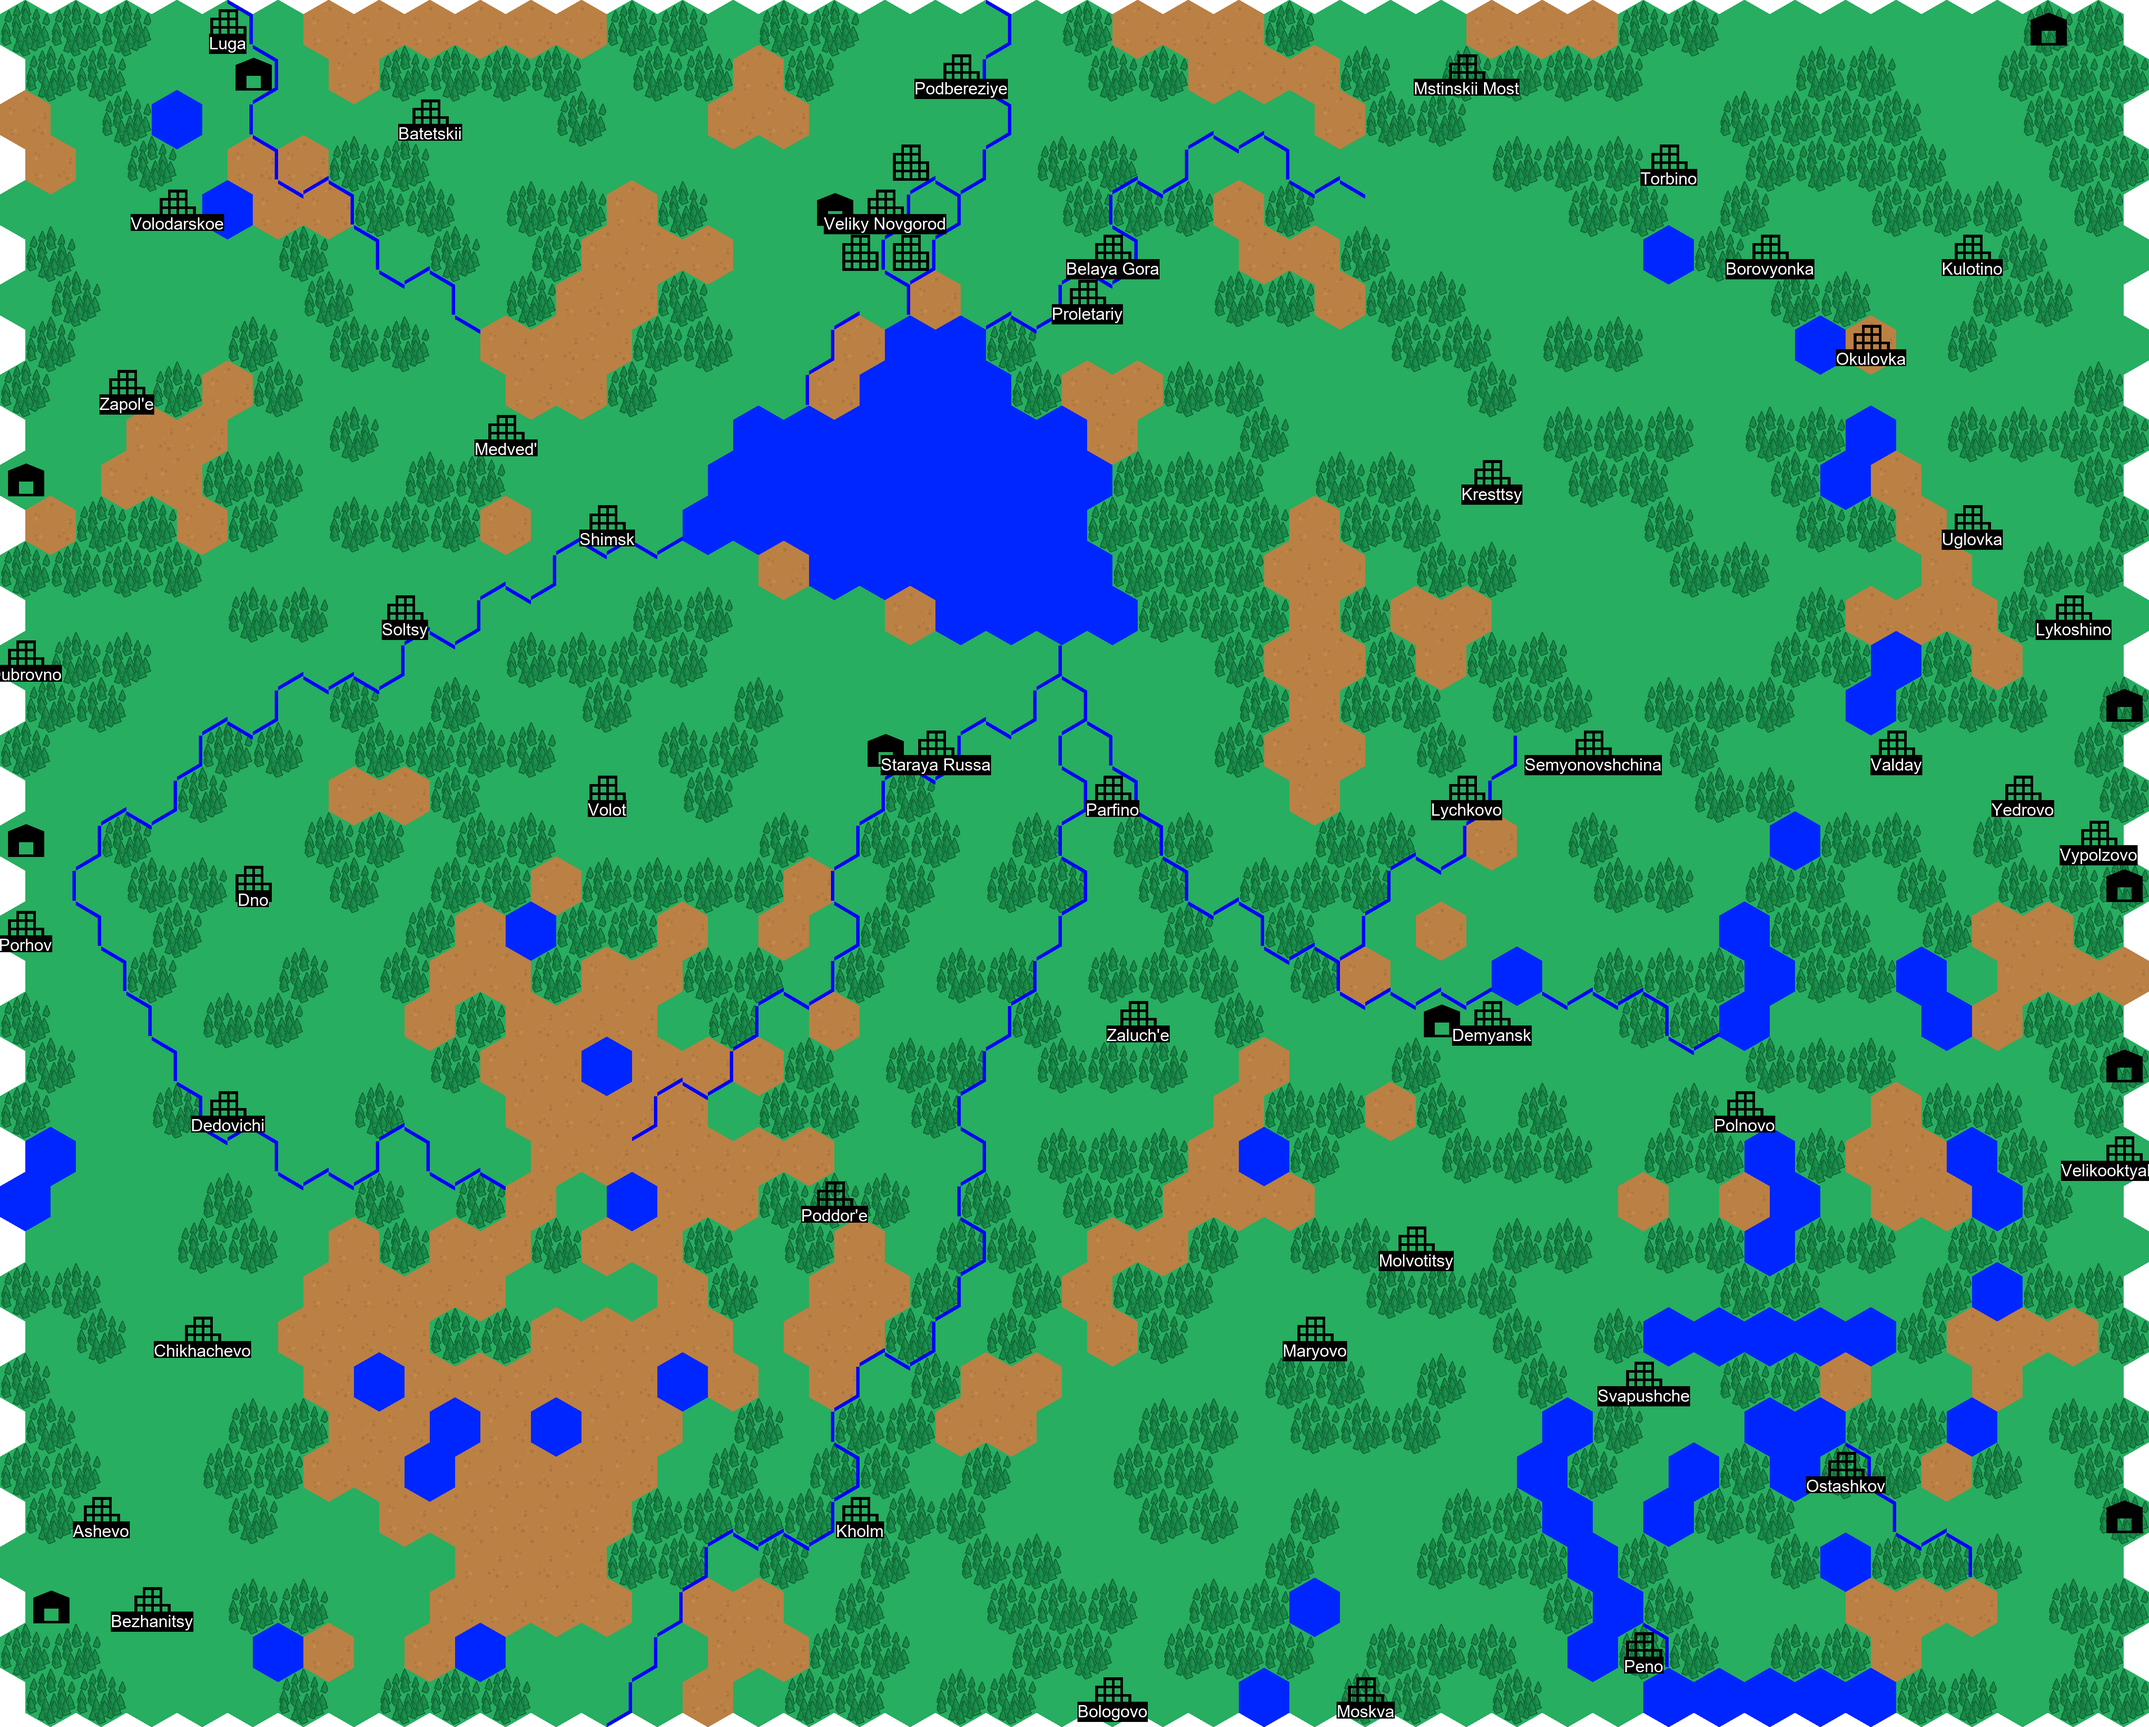
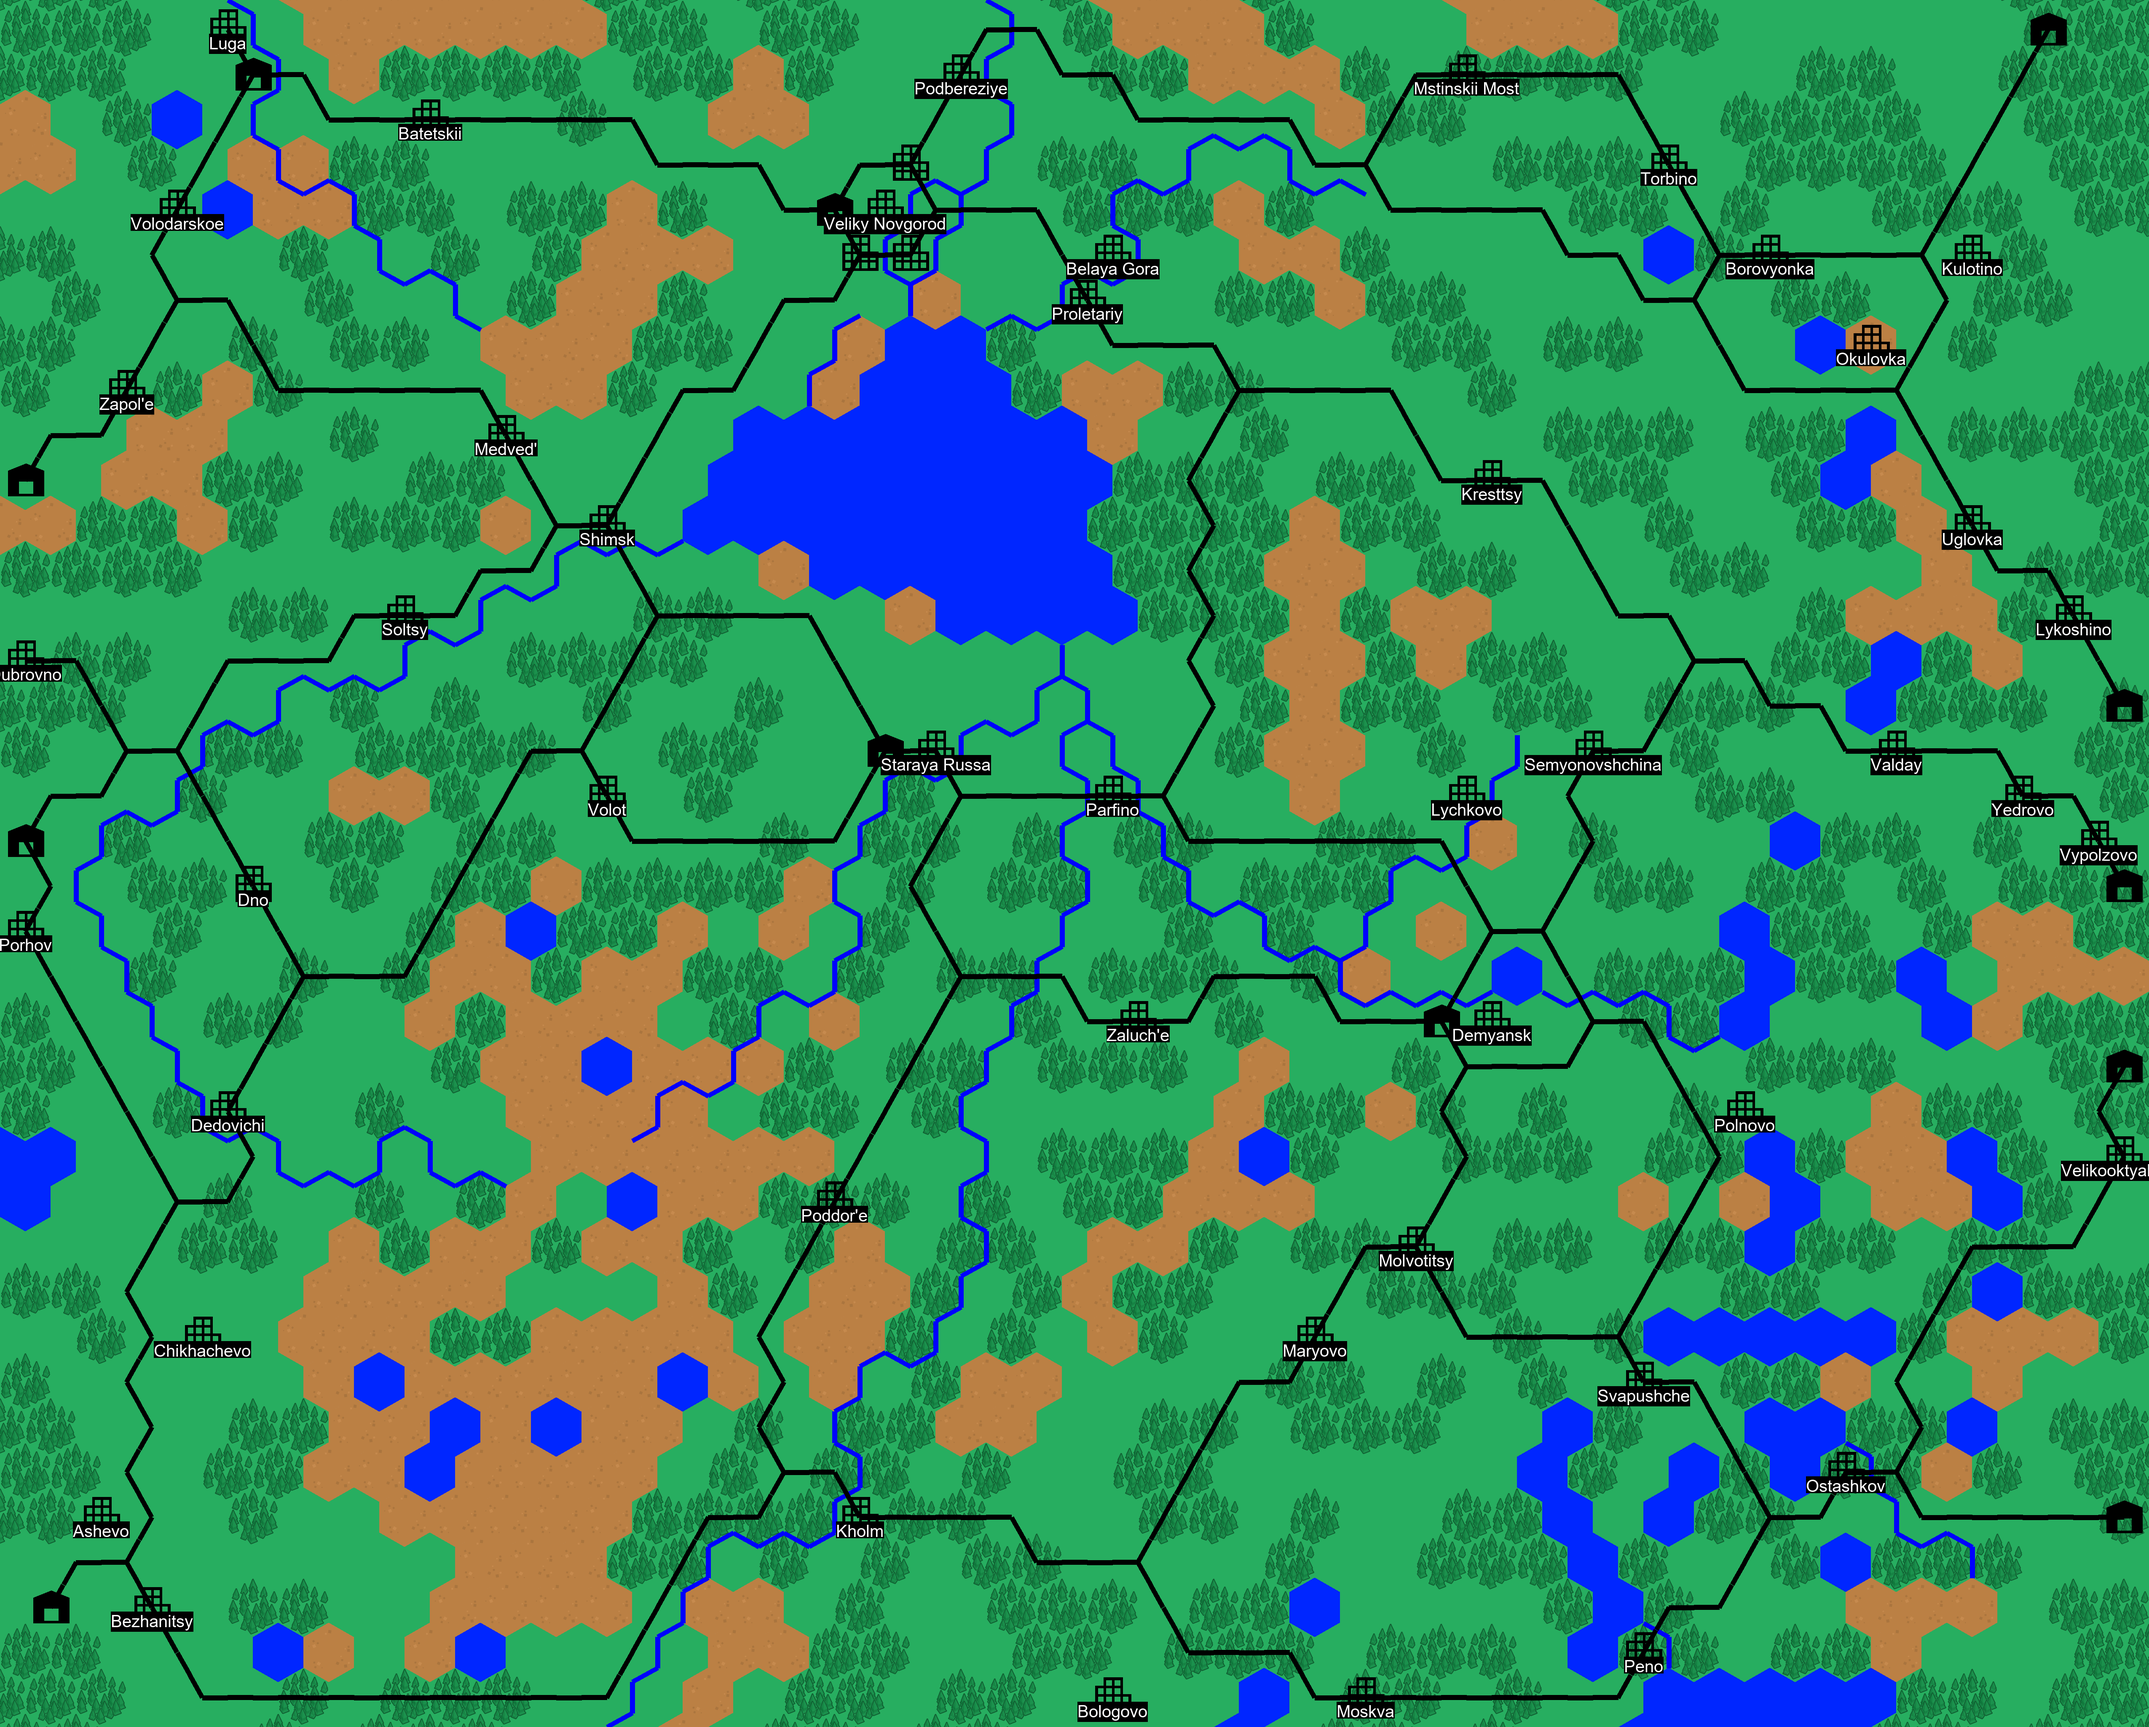
map preview

diff --git a/src/map_generate_preview.py b/src/map_generate_preview.py
@@ -2,6 +2,7 @@ from os import listdir, path
 from json import load
 from inquirer import List, prompt
 from PIL import Image, ImageFont, ImageDraw
+from operator import add
 
 BASE_DIR = path.dirname(path.abspath(__file__))
 ROOT_DIR = path.abspath(path.join(BASE_DIR, ".."))
@@ -9,6 +10,7 @@ MAPS_DIR = path.join(ROOT_DIR, "maps")
 MAPS_DATA_DIR = path.join(ROOT_DIR, "maps_data")
 RESOURCES_DIR = path.join(ROOT_DIR, "resources")
 
+HEXAGON_CORNERS = ((60, 0), (120, 33), (120, 107), (60, 140), (0, 107), (0, 33))
 
 class MapPreview:
 
@@ -23,19 +25,14 @@ class MapPreview:
         self.hexagon_h = 0
         self.pixel_w = 0
         self.pixel_h = 0
+        
+        self.hex_lookup = {}
 
         self.images = {"terrain": {}, "landmark": {}, "river": []}
-
-        self.river_map = [
-            [False, False, False, False, False, False],
-            [True, False, False, False, False, False],
-            [False, True, False, False, False, False],
-            [False, False, True, False, False, False],
-            [True, True, False, False, False, False],
-            [True, False, True, False, False, False],
-            [False, True, True, False, False, False],
-            [True, True, True, False, False, False],
-        ]
+        
+        self.canvas = None
+        self.draw = None
+        self.font = ImageFont.truetype("arial.ttf", 40)
 
     def load_terrain_images(self):
         for image_filename in listdir(path.join(RESOURCES_DIR, "terrain")):
@@ -67,72 +64,125 @@ class MapPreview:
         self.hexagon_h = data["metadata"]["height"]
         self.pixel_w = self.hexagon_w * 120 + 60
         self.pixel_h = self.hexagon_h * 107 + 33
+        
+        self.hex_lookup = {(h['x'], h['y']): h for h in self.hexagons}
+        self.canvas = Image.new("RGBA", (self.pixel_w, self.pixel_h), (0, 0, 0, 0))
+        self.draw = ImageDraw.Draw(self.canvas)
 
-    def generate_preview(self):
-
-        canvas = Image.new("RGBA", (self.pixel_w, self.pixel_h), (0, 0, 0, 0))
-
-        draw = ImageDraw.Draw(canvas)
-
-        font = ImageFont.truetype("arial.ttf", 40)
+    def draw_hexagons(self):
 
         for hexagon in self.hexagons:
             ix = hexagon["x"]
             iy = hexagon["y"]
             terrain = hexagon["terrain"]
             landmark = hexagon["landmark"]
-            river = hexagon["river"]
 
             px = ix * 120 + (iy % 2) * 60
             py = iy * 107
 
-            river_index = 0
+            terrain_img = self.images["terrain"][terrain]
+            landmark_img = self.images["landmark"][landmark]
 
-            for i in range(8):
-                if not all(x == y for x, y in zip(river, self.river_map[i])):
-                    continue
-                river_index = i
-                break
+            self.canvas.paste(terrain_img, (px, py), terrain_img)
 
-            canvas.paste(
-                self.images["terrain"][terrain],
-                (px, py),
-                self.images["terrain"][terrain],
-            )
+            if iy % 2 == 0 and ix + 1 == self.hexagon_w:
+                self.canvas.paste(terrain_img, (px + 120, py), terrain_img)    
+                
+            if iy % 2 == 1 and ix == 0:   
+                self.canvas.paste(terrain_img, (px - 120, py), terrain_img)    
+                
+            if iy == 0:
+                self.canvas.paste(terrain_img, (px - 60, py - 107), terrain_img)    
+                if ix + 1 == self.hexagon_w:               
+                    self.canvas.paste(terrain_img, (px + 60, py - 107), terrain_img)    
 
-            if landmark != "default":
-                canvas.paste(
-                    self.images["landmark"][landmark],
-                    (px, py),
-                    self.images["landmark"][landmark],
-                )
+            if iy + 1 == self.hexagon_h:
+                self.canvas.paste(terrain_img, (px - 60, py + 107), terrain_img)     
+                if ix + 1 == self.hexagon_w:               
+                    self.canvas.paste(terrain_img, (px + 60, py + 107), terrain_img)    
 
-            if river_index > 0:
-                canvas.paste(
-                    self.images["river"][river_index],
-                    (px, py),
-                    self.images["river"][river_index],
-                )
-
+            if landmark == "default":
+                continue
+            
+            self.canvas.paste(landmark_img, (px, py), landmark_img)   
+     
+    def draw_city_names(self):
         for city in self.cities:
             ix = city["x"]
             iy = city["y"]
             name = city["name"]
 
-            bbox = draw.textbbox((0, 0), name, font=font)
+            bbox = self.draw.textbbox((0, 0), name, font=self.font)
             text_w = bbox[2] - bbox[0]
             text_h = bbox[3] - bbox[1]
 
             px = ix * 120 + (iy % 2) * 60 + 60 - text_w // 2
             py = iy * 107
 
-            draw.rectangle(
+            self.draw.rectangle(
                 (px, py + 80, px + text_w, py + 80 + text_h + 10),
                 fill=(0, 0, 0, 255),
             )
-            draw.text((px, py + 80), name, fill=(255, 255, 255, 255), font=font)
+            self.draw.text((px, py + 80), name, fill=(255, 255, 255, 255), font=self.font)   
+         
+    def draw_rivers(self):
+                
+        for hexagon in self.hexagons:
+            ix = hexagon["x"]
+            iy = hexagon["y"]
+            river = hexagon["river"]
 
-        canvas.save(path.join(MAPS_DATA_DIR, self.map_id, "preview.png"))
+            px = ix * 120 + (iy % 2) * 60
+            py = iy * 107  
+            
+            for index, value in enumerate(river):
+                
+                if not value:
+                    continue
+                
+                (cpx1, cpy1) = HEXAGON_CORNERS[index]
+                (cpx2, cpy2) = HEXAGON_CORNERS[(index + 1) % 6]
+                
+                self.draw.line([(px + cpx1, py + cpy1), (px + cpx2, py + cpy2)], fill=(0, 0, 255), width=12)
+
+    def draw_railway(self):
+        for hexagon in self.hexagons:
+            ix = hexagon["x"]
+            iy = hexagon["y"]
+            railway = hexagon["railway"] 
+
+            if not railway:
+                continue
+
+            if iy % 2 == 0:
+                neighbor_coords = [(ix, iy-1), (ix+1, iy), (ix, iy+1), (ix-1, iy+1), (ix-1, iy), (ix-1, iy-1)]    
+            else:
+                neighbor_coords = [(ix+1, iy-1), (ix+1, iy), (ix+1, iy+1), (ix, iy+1), (ix-1, iy), (ix, iy-1)]
+
+            railways = [False, False, False, False, False, False]
+            for i, (nx, ny) in enumerate(neighbor_coords):
+                neighbor = self.hex_lookup.get((nx, ny))
+                if neighbor and neighbor["railway"]:
+                    railways[i] = True
+
+            px = ix * 120 + (iy % 2) * 60
+            py = iy * 107  
+
+            (cpx1, cpy1) = (60, 70)
+            
+            for index, value in enumerate(railways):
+                if not value:
+                    continue
+      
+                hc1 = HEXAGON_CORNERS[index]
+                hc2 = HEXAGON_CORNERS[(index + 1) % 6]
+      
+                (cpx2, cpy2) = ((hc1[0] + hc2[0]) / 2, (hc1[1] + hc2[1]) / 2)            
+            
+                self.draw.line([(px + cpx1, py + cpy1), (px + cpx2, py + cpy2)], fill=(0, 0, 0), width=12)
+                
+    def save_canvas(self):
+        self.canvas.save(path.join(MAPS_DATA_DIR, self.map_id, "preview.png"))
 
 
 def run():
@@ -148,4 +198,8 @@ def run():
     map_preview = MapPreview(map_id, 0)
     map_preview.load_terrain_images()
     map_preview.load_map_data()
-    map_preview.generate_preview()
+    map_preview.draw_hexagons()
+    map_preview.draw_rivers()
+    map_preview.draw_railway()
+    map_preview.draw_city_names()
+    map_preview.save_canvas()
